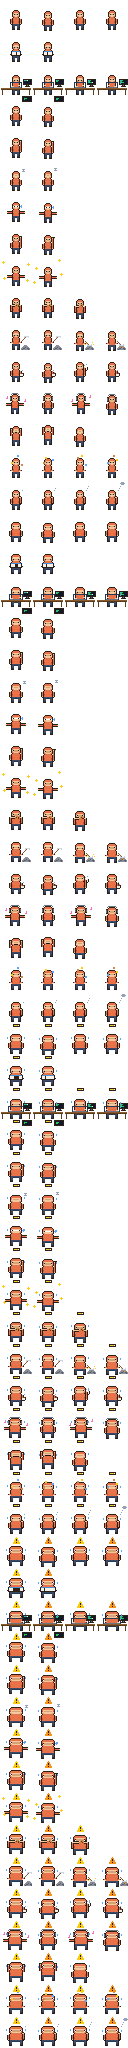
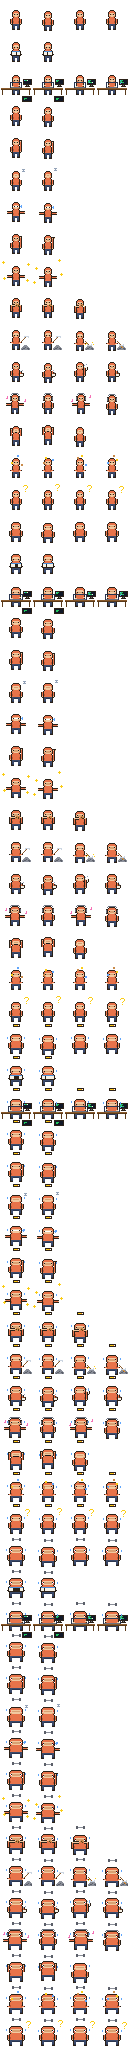
Question mark while thinking, dumbbell over the head at the fattest level
The think pose is the normal standing body with a bobbing question mark next
to the head instead of hand-on-chin with thought dots. At fat level 3 a heavy
dumbbell wobbles above the head in place of the warning triangle.

diff --git a/tools/gen_sprites.py b/tools/gen_sprites.py
@@ -5,7 +5,7 @@ Output: Sources/ClaudeBuddy/Resources/buddy.png (main) and buddy_1..buddy_4.png 
 Sheet layout: 32x32 px frames, 4 columns, one animation per row (unused frames stay empty).
 Rows come in FAT_LEVELS blocks of 16: block 0 is the normal body, each further block is a wider one
 (used as the agent's context window fills up; level 2 is strained: blush, temple drops and a load gauge,
-level 3 overheated: dizzy eyes, warning triangle).
+level 3 overheated: dizzy eyes, a heavy dumbbell over the head).
 Within a block the row order must match `Pose` in Sources/ClaudeBuddy/Model.swift:
   0 idle  1 read  2 type(desk)  3 run  4 wait  5 sleep  6 oops  7 wave  8 spawn  9 eat  10 mine
   11 coffee  12 dance  13 stretch  14 juggle  15 think
@@ -178,13 +178,12 @@ class Body:
         elif arms == 'forward': self.arms_forward(f, y, 12)
         elif arms == 'out': self.arms_out(f, y)
         elif arms == 'eat': self.arms_eat(f, y)
-        elif arms == 'chin': self.arms_down(f, y); self.arm_chin(f, y)
         self.ox -= x_off
         self.last_x_off = x_off
 
     def load_overlay(self, f, i):
         """Heavy-load cues added to frame `i` of every row. Strained: blush, a drop on each temple
-        and a load gauge. Overheated: hotter blush, dizzy eyes, a pulsing warning triangle."""
+        and a load gauge. Overheated: hotter blush, dizzy eyes, a heavy dumbbell wobbling over the head."""
         if self.condition == 'fine': return
         hot = self.condition == 'overheated'
         xo = getattr(self, 'last_x_off', 0)
@@ -197,10 +196,9 @@ class Body:
             y = OY + 3 + i % 2
             f.put(x, y, 'd'); f.put(x, y + 1, 'd')
         if hot:
-            # warning triangle above the head, pulsing yellow / orange
-            c = 'y' if i % 2 == 0 else 'G'
-            tri = ["...c...", "..ccc..", "..cec..", ".ccecc.", ".ccccc.", "cccescc"[:3] + "e" + "ccc", "ccccccc"]
-            f.blit([row.replace('c', c) for row in tri], cx - 3, OY - 9)
+            # a heavy dumbbell wobbling above the head
+            bell = ["RR.....RR", "RRrrrrrRR", "RR.....RR"]
+            f.blit(bell, cx - 4, OY - 8 + (0, 1)[i % 2])
         else:
             # load gauge above the head
             gx, gy = cx - 3, OY - 10
@@ -245,21 +243,10 @@ class Body:
             r = max(k for k, n in enumerate(lines) if n)
             f.put(mx + 1 + lines[r], my + 1 + r, 'B')          # blinking cursor
 
-    def arm_chin(self, f, y):
-        """Right arm bent up, hand resting on the chin."""
-        col, outer = self.R(), self.R() + 1
-        for j in range(8, 13): f.put(col, y + j, 'h'); f.put(outer, y + j, 'o')
-        f.put(col, y + 13, 'o'); f.put(outer, y + 13, 'o')
-        f.put(col, y + 7, 's'); f.put(col - 1, y + 7, 's'); f.put(outer, y + 7, 'o')
-        f.put(col, y + 6, 'o'); f.put(col - 1, y + 6, 'o')
-
-    def thought(self, f, phase):
-        """Thought dots rising from the head, then a little cloud."""
-        x = self.ox + self.W
-        dots = [(x, OY), (x + 1, OY - 2), (x + 2, OY - 4)]
-        for k in range(min(phase + 1, 3)): f.put(*dots[k], 'z')
-        if phase >= 3:
-            f.blit([".zzz.", "zzzzz", ".zzz."], x + 2, OY - 8)
+    def question(self, f, phase):
+        """A question mark floating next to the head (clear of the load gauge), bobbing up and down."""
+        art = [".yyy.", "y...y", "....y", "...y.", "..y..", ".....", "..y.."]
+        f.blit(art, self.ox + self.W + 1, OY - 5 + (0, -1, 0, 1)[phase % 4])
 
     def sweat(self, f, phase, side=+1):
         x, y = (self.ox + self.W - 1 if side > 0 else self.ox), OY + 3 + phase
@@ -398,7 +385,7 @@ def make_block(extra, condition='fine'):
     rows.append(balls)                                                                                    # juggle
     think = []
     for ph in range(4):
-        x = fr(head='blink' if ph == 3 else 'open', arms='chin'); b.thought(x, ph); think.append(x)
+        x = fr(head='blink' if ph == 3 else 'open'); b.question(x, ph); think.append(x)
     rows.append(think)                                                                                    # think
     for row in rows:
         for i, f in enumerate(row): b.load_overlay(f, i)

diff --git a/README.md b/README.md
@@ -40,7 +40,7 @@ position is remembered.
 | Hook event | Pose |
 |---|---|
 | `SessionStart` | sparkles, "hej!" |
-| `UserPromptSubmit`, and after every `PostToolUse` until the next tool | hand on chin, thought bubble, "pondering…" |
+| `UserPromptSubmit`, and after every `PostToolUse` until the next tool | question mark over the head, "pondering…" |
 | `PreToolUse` Read / Grep / Glob / WebFetch | reading a book |
 | `PreToolUse` Edit / Write | sits down at a desk and types, code appearing on the monitor |
 | `PreToolUse` Bash | terminal window |
@@ -63,7 +63,7 @@ Events carry `agent_id`, so tool calls made *inside* a subagent animate that clo
 `.jsonl` (or the subagent's file under `<session>/subagents/`) and takes the latest assistant turn's
 input + cache tokens as the context in use. The sheet has four body widths; the character steps up one
 size for every 25 % of the window used, and the label shows the count, e.g. `shack-products · 115k`.
-Past 50 % the character flushes and shows a load gauge above its head; past 75 % it is dizzy and a warning triangle pulses over its head.
+Past 50 % the character flushes and shows a load gauge above its head; past 75 % it is dizzy with a heavy dumbbell wobbling over its head.
 The window size (200k or 1M) is a toggle in the menu bar.
 Multiple concurrent Claude sessions each get their own character (labelled with the project folder).
 
